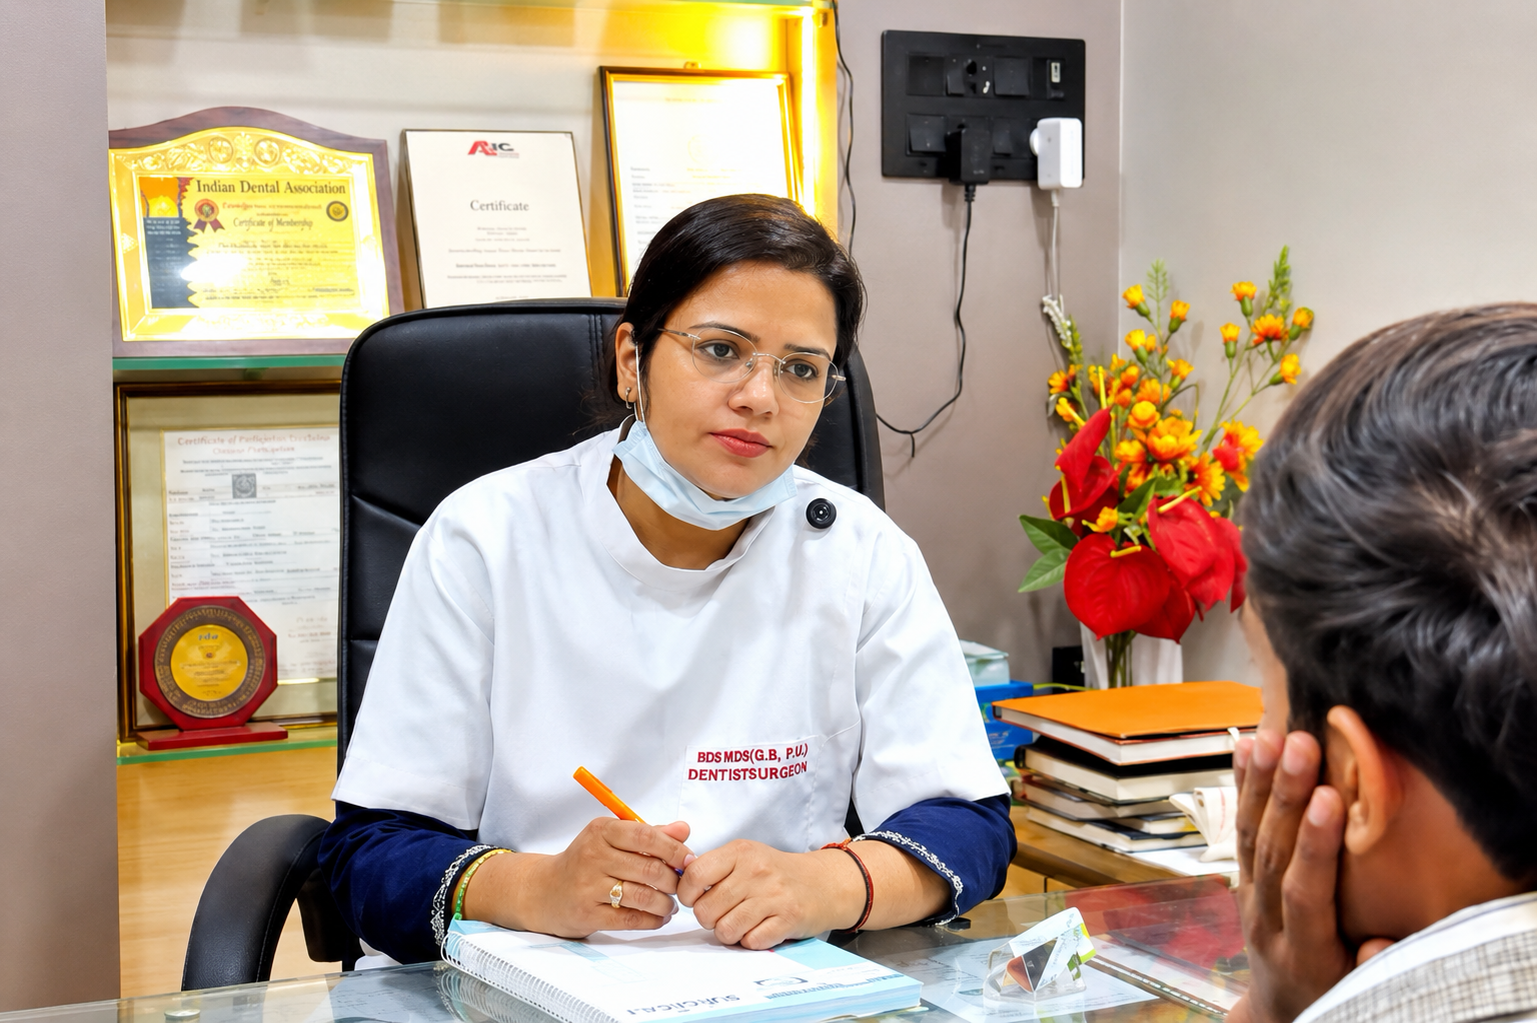
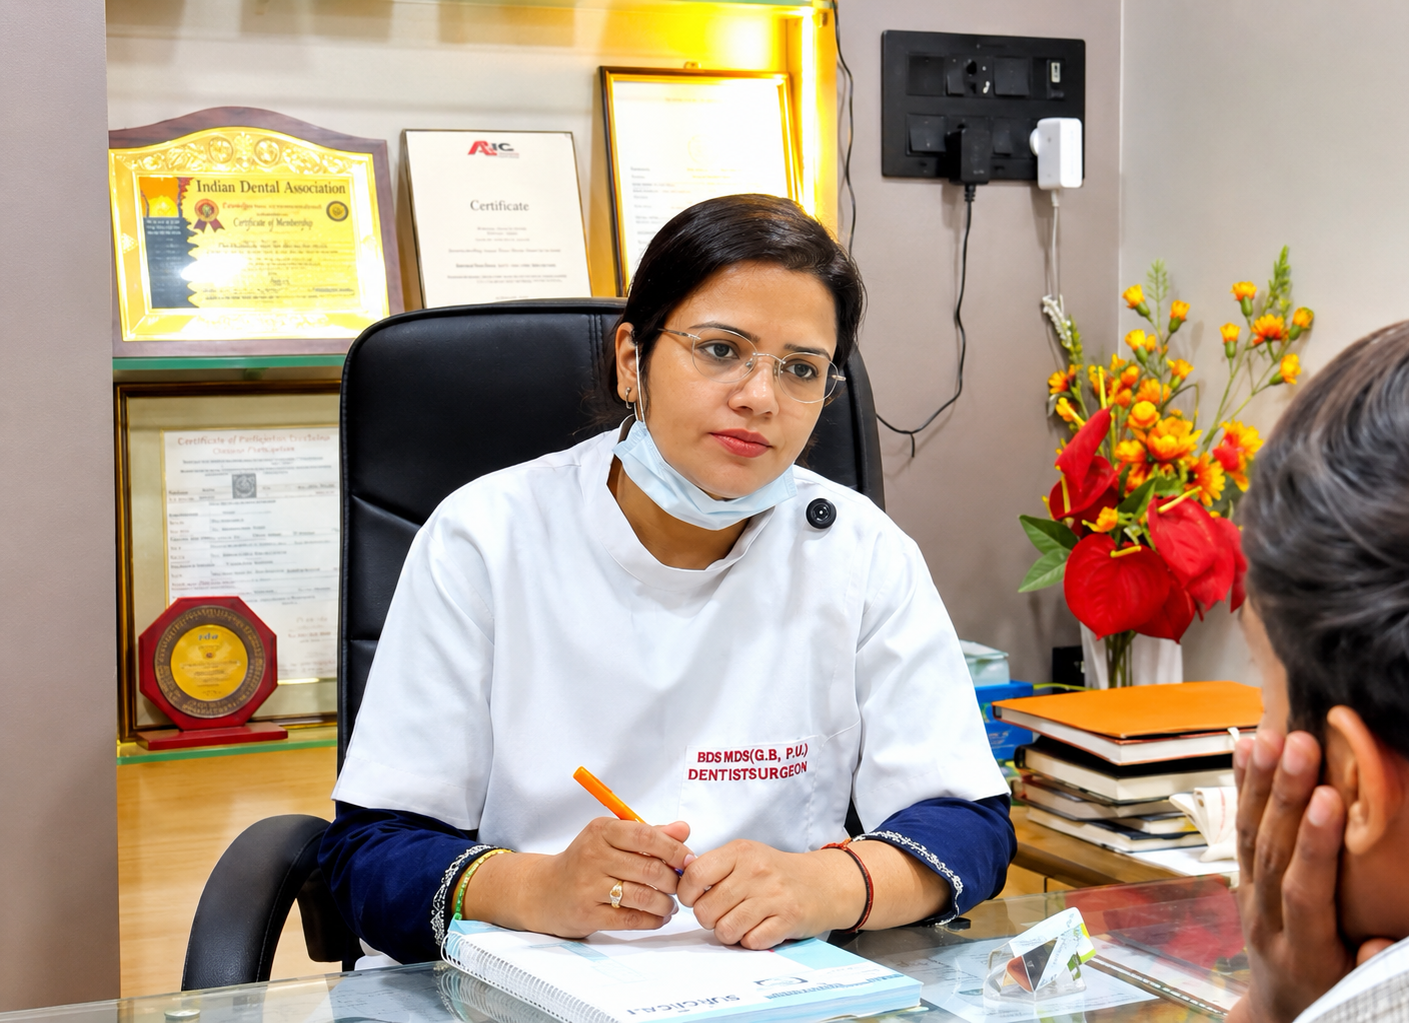
dr vipul img

diff --git a/index.html b/index.html
@@ -1115,7 +1115,7 @@ content="Looking for the best dentist in Varanasi? Rastogi Dental Clinic offers 
                 <!-- Dr. Vipul -->
                 <div class="glass-card rounded-3xl overflow-hidden flex flex-col sm:flex-row reveal relative z-10">
                     <div class="sm:w-2/5 h-64 sm:h-auto relative shrink-0">
-                        <img src="images/vipuldr.png" alt="Dr. Vipul Rastogi - RASTOGI DENTAL CLINIC" class="w-full h-full object-cover">
+                        <img src="images/28v.png" alt="Dr. Vipul Rastogi - RASTOGI DENTAL CLINIC" class="w-full h-full object-cover">
                         <div class="absolute inset-0 bg-gradient-to-t from-dark/70 via-transparent to-transparent sm:hidden"></div>
                     </div>
                     <div class="sm:w-3/5 p-6 md:p-8 flex flex-col justify-center">